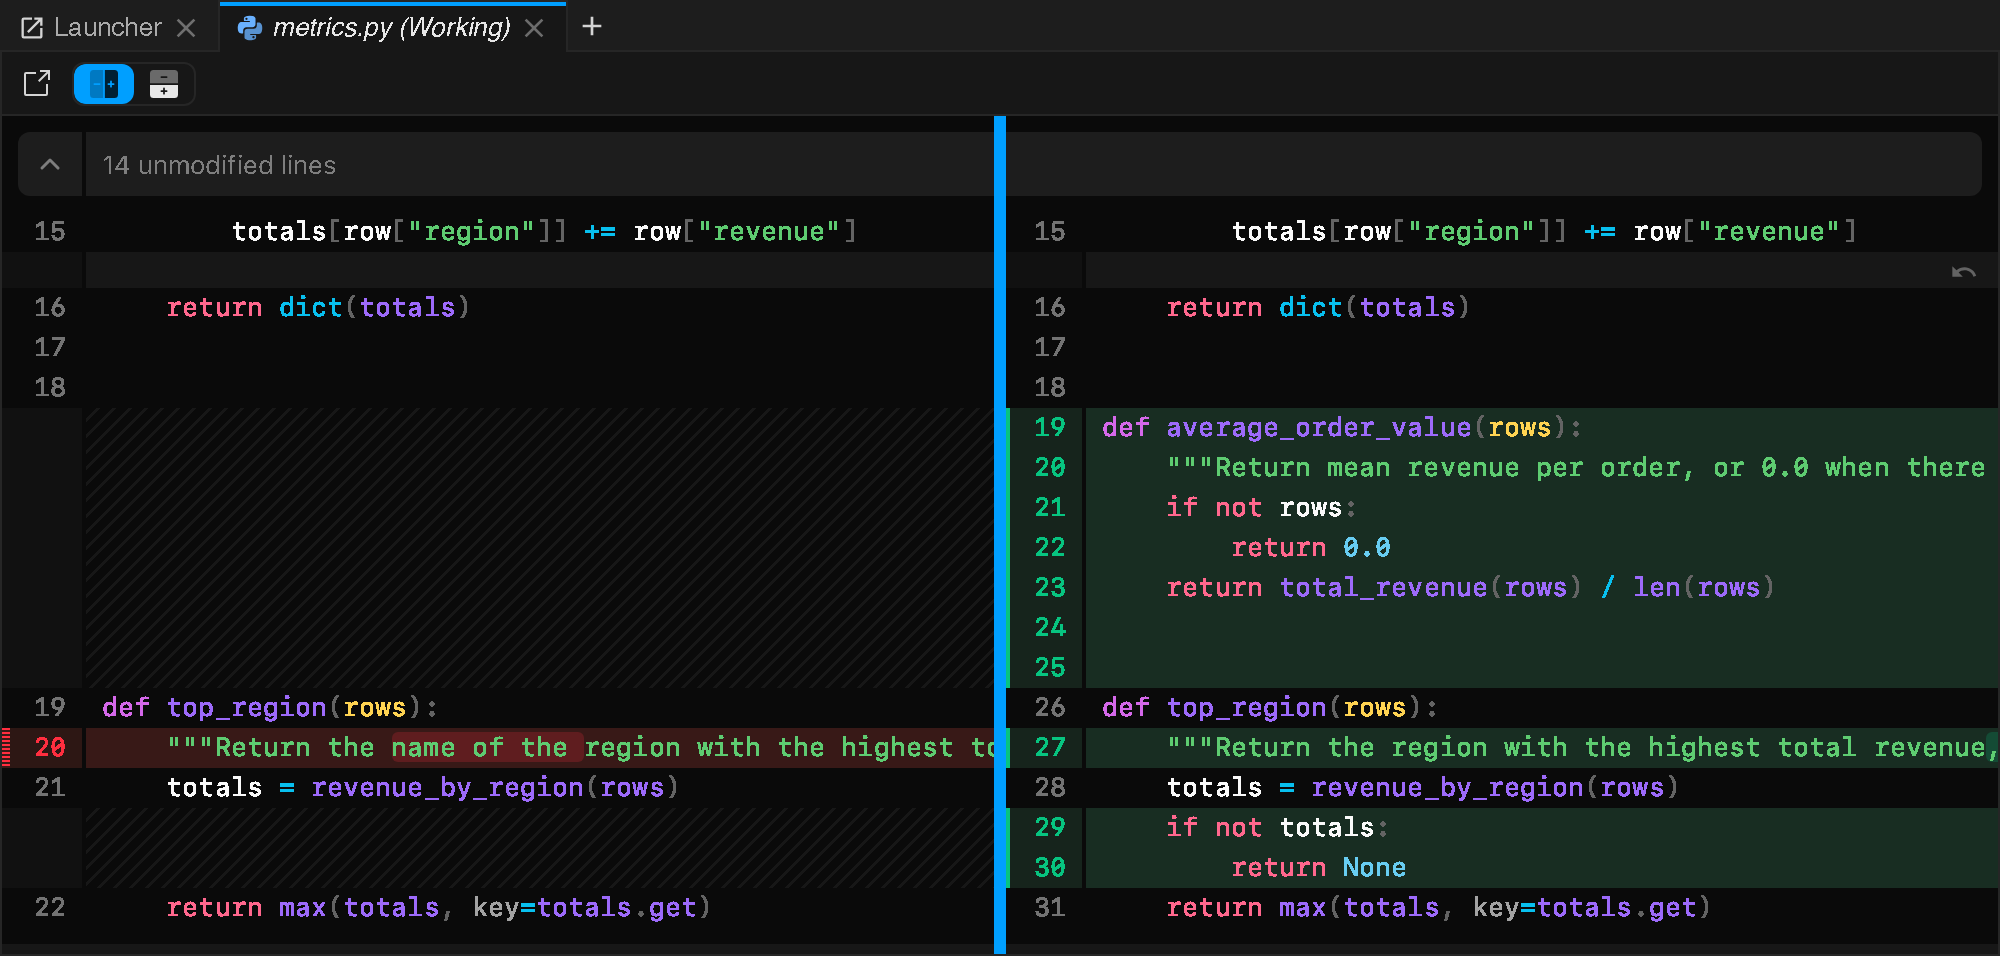
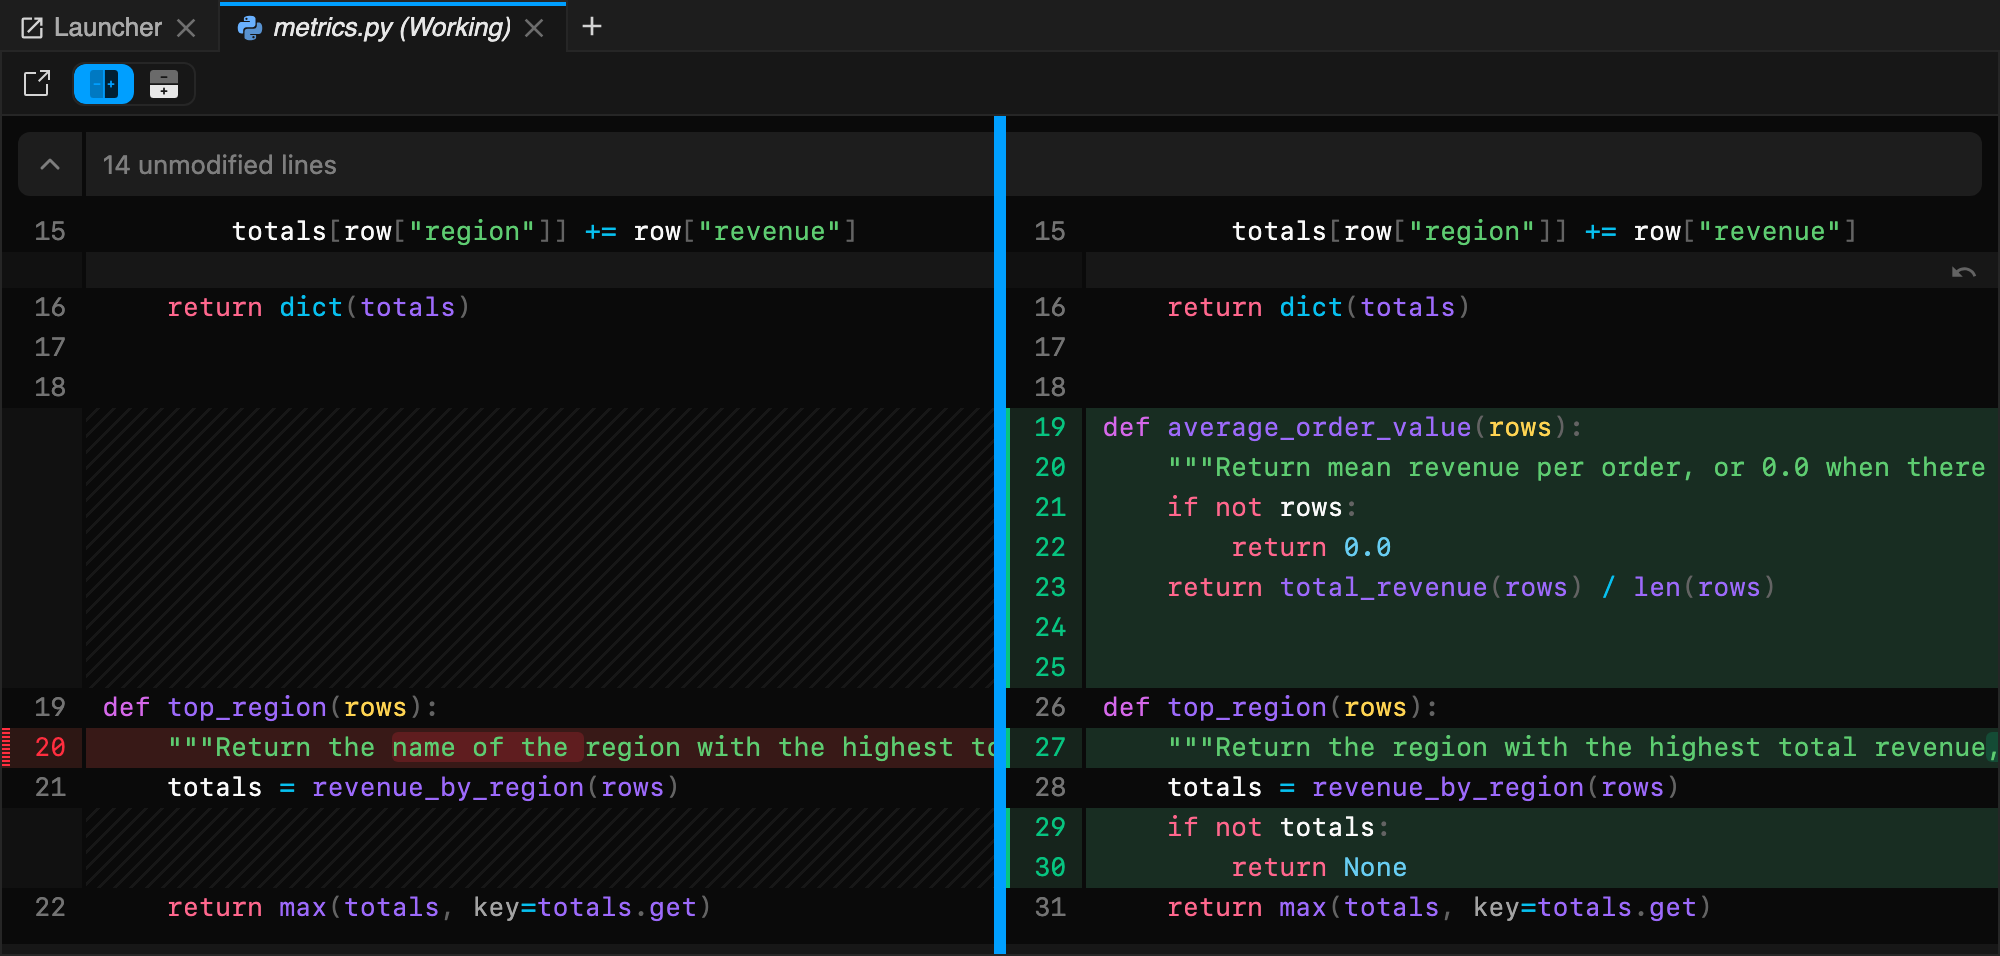
Capture docs screenshots with smooth text

diff --git a/ui-tests/jupyter_server_test_config.py b/ui-tests/jupyter_server_test_config.py
@@ -1,6 +1,8 @@
 """Server configuration for the Galata screenshot suite."""
 
+import json
 import os
+from pathlib import Path
 
 from jupyterlab.galata import configure_jupyter_server
 
@@ -18,3 +20,11 @@ os.chdir(os.environ["JUPYTERLAB_GALATA_ROOT_DIR"])
 for key in list(os.environ):
     if key.startswith(("CLAUDE", "ANTHROPIC")):
         del os.environ[key]
+
+# Galata's fonts plugin swaps in DejaVu fonts and turns off font smoothing, so
+# regression screenshots match across platforms. The docs show the real UI.
+labconfig = Path(os.environ["JUPYTER_CONFIG_DIR"], "labconfig")
+labconfig.mkdir(parents=True, exist_ok=True)
+(labconfig / "page_config.json").write_text(
+    json.dumps({"disabledExtensions": {"@jupyterlab/galata-extension:fonts": True}})
+)

diff --git a/ui-tests/README.md b/ui-tests/README.md
@@ -28,7 +28,9 @@ pnpm screenshots
 
 Playwright starts the server itself (port 8899) with an isolated Jupyter
 config, forces the Pierre Dark theme in memory, and shuts everything down
-afterwards.
+afterwards. It also turns off Galata's fonts plugin, which swaps in DejaVu
+fonts and turns off font smoothing for regression tests, so the captures show
+the real fonts of the app.
 
 Except for `hero.png`, each capture is cropped to one feature (the launcher,
 a diff, the prompt box, a panel) instead of the whole window, so that it stays
@@ -68,14 +70,14 @@ on screen while it runs.
 
 ## README images
 
-The images referenced by the repository README are WebP copies of the
-captures:
+The images referenced by the repository README are lossless WebP copies of
+the captures (lossy WebP blurs the text):
 
 ```bash
 cd ../docs/src/assets/screenshots
-cwebp -q 90 -resize 2400 0 hero.png -o ../../../../images/hero.webp
+cwebp -lossless -resize 2400 0 hero.png -o ../../../../images/hero.webp
 for name in launcher diff ask-agent omnibox terminals; do
-  cwebp -q 90 $name.png -o ../../../../images/$name.webp
+  cwebp -lossless $name.png -o ../../../../images/$name.webp
 done
 ```
 
